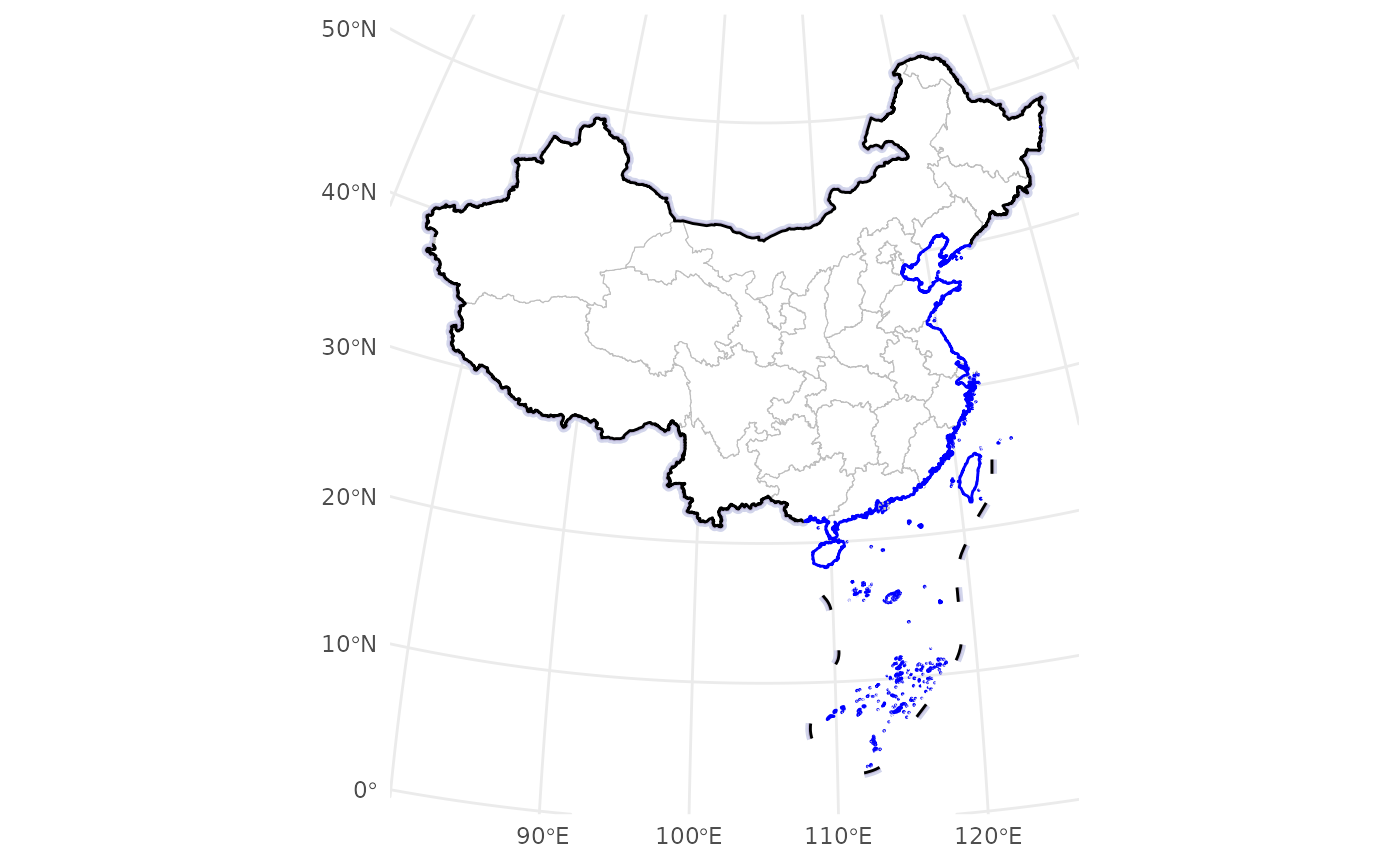
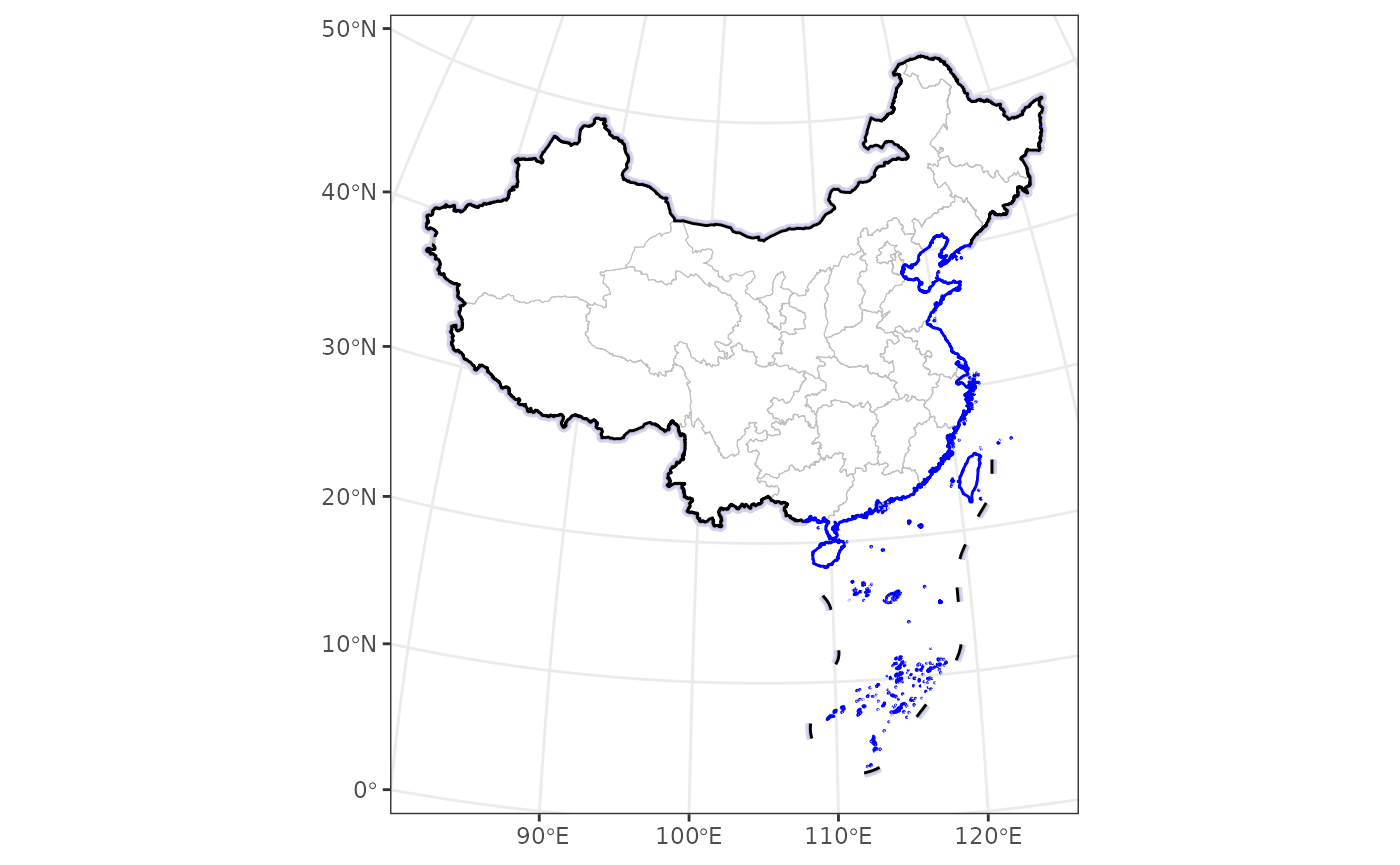
Deploying to gh-pages from @ Rimagination/ggmapcn@1515e055a75295570000e539c8dd0d68d1976e99 🚀

Changed region(s): [[0.2764, 0.9364, 0.7679, 0.9676]]

diff --git a/articles/01.Get_Started.html b/articles/01.Get_Started.html
@@ -5,12 +5,12 @@
 <meta charset="utf-8">
 <meta http-equiv="X-UA-Compatible" content="IE=edge">
 <meta name="viewport" content="width=device-width, initial-scale=1, shrink-to-fit=no">
-<title>Get_started • ggmapcn</title>
+<title>Get_Started • ggmapcn</title>
 <script src="../deps/jquery-3.6.0/jquery-3.6.0.min.js"></script><meta name="viewport" content="width=device-width, initial-scale=1, shrink-to-fit=no">
 <link href="../deps/bootstrap-5.3.1/bootstrap.min.css" rel="stylesheet">
 <script src="../deps/bootstrap-5.3.1/bootstrap.bundle.min.js"></script><link href="../deps/font-awesome-6.4.2/css/all.min.css" rel="stylesheet">
 <link href="../deps/font-awesome-6.4.2/css/v4-shims.min.css" rel="stylesheet">
-<script src="../deps/headroom-0.11.0/headroom.min.js"></script><script src="../deps/headroom-0.11.0/jQuery.headroom.min.js"></script><script src="../deps/bootstrap-toc-1.0.1/bootstrap-toc.min.js"></script><script src="../deps/clipboard.js-2.0.11/clipboard.min.js"></script><script src="../deps/search-1.0.0/autocomplete.jquery.min.js"></script><script src="../deps/search-1.0.0/fuse.min.js"></script><script src="../deps/search-1.0.0/mark.min.js"></script><!-- pkgdown --><script src="../pkgdown.js"></script><meta property="og:title" content="Get_started">
+<script src="../deps/headroom-0.11.0/headroom.min.js"></script><script src="../deps/headroom-0.11.0/jQuery.headroom.min.js"></script><script src="../deps/bootstrap-toc-1.0.1/bootstrap-toc.min.js"></script><script src="../deps/clipboard.js-2.0.11/clipboard.min.js"></script><script src="../deps/search-1.0.0/autocomplete.jquery.min.js"></script><script src="../deps/search-1.0.0/fuse.min.js"></script><script src="../deps/search-1.0.0/mark.min.js"></script><!-- pkgdown --><script src="../pkgdown.js"></script><meta property="og:title" content="Get_Started">
 </head>
 <body>
     <a href="#main" class="visually-hidden-focusable">Skip to contents</a>
@@ -33,7 +33,7 @@
 <li class="active nav-item dropdown">
   <button class="nav-link dropdown-toggle" type="button" id="dropdown-articles" data-bs-toggle="dropdown" aria-expanded="false" aria-haspopup="true">Articles</button>
   <ul class="dropdown-menu" aria-labelledby="dropdown-articles">
-<li><a class="dropdown-item" href="../articles/01.Get_Started.html">Get_started</a></li>
+<li><a class="dropdown-item" href="../articles/01.Get_Started.html">Get_Started</a></li>
     <li><a class="dropdown-item" href="../articles/02.Adding_Spatial_Data.html">Adding_Spatial_Data</a></li>
   </ul>
 </li>
@@ -56,7 +56,7 @@
 <div class="row">
   <main id="main" class="col-md-9"><div class="page-header">
 
-      <h1>Get_started</h1>
+      <h1>Get_Started</h1>
             
       
       <small class="dont-index">Source: <a href="https://github.com/yourusername/yourrepository/blob/main/vignettes/01.Get_Started.Rmd" class="external-link"><code>vignettes/01.Get_Started.Rmd</code></a></small>
@@ -92,7 +92,7 @@ boundaries, buffer zones, and coastlines on the same map:</p>
 <span>  <span class="fu"><a href="../reference/geom_buffer_cn.html">geom_buffer_cn</a></span><span class="op">(</span>mainland_dist <span class="op">=</span> <span class="fl">20000</span>, fill <span class="op">=</span> <span class="st">"#BBB3D8"</span><span class="op">)</span> <span class="op">+</span></span>
 <span>  <span class="fu"><a href="../reference/geom_mapcn.html">geom_mapcn</a></span><span class="op">(</span>fill <span class="op">=</span> <span class="st">"white"</span><span class="op">)</span> <span class="op">+</span></span>
 <span>  <span class="fu"><a href="../reference/geom_boundary_cn.html">geom_boundary_cn</a></span><span class="op">(</span><span class="op">)</span> <span class="op">+</span></span>
-<span>  <span class="fu"><a href="https://ggplot2.tidyverse.org/reference/ggtheme.html" class="external-link">theme_minimal</a></span><span class="op">(</span><span class="op">)</span></span></code></pre></div>
+<span>  <span class="fu"><a href="https://ggplot2.tidyverse.org/reference/ggtheme.html" class="external-link">theme_bw</a></span><span class="op">(</span><span class="op">)</span></span></code></pre></div>
 <p><img src="01.Get_Started_files/figure-html/example5-1.png" alt="Map of China" width="700"></p>
 </div>
   </main><aside class="col-md-3"><nav id="toc" aria-label="Table of contents"><h2>On this page</h2>

diff --git a/articles/index.html b/articles/index.html
@@ -18,7 +18,7 @@
       <ul class="navbar-nav me-auto"><li class="nav-item"><a class="nav-link" href="../reference/index.html">Reference</a></li>
 <li class="nav-item dropdown">
   <button class="nav-link dropdown-toggle" type="button" id="dropdown-articles" data-bs-toggle="dropdown" aria-expanded="false" aria-haspopup="true">Articles</button>
-  <ul class="dropdown-menu" aria-labelledby="dropdown-articles"><li><a class="dropdown-item" href="../articles/01.Get_Started.html">Get_started</a></li>
+  <ul class="dropdown-menu" aria-labelledby="dropdown-articles"><li><a class="dropdown-item" href="../articles/01.Get_Started.html">Get_Started</a></li>
     <li><a class="dropdown-item" href="../articles/02.Adding_Spatial_Data.html">Adding_Spatial_Data</a></li>
   </ul></li>
       </ul><ul class="navbar-nav"><li class="nav-item"><form class="form-inline" role="search">
@@ -39,7 +39,7 @@
       <h3>All vignettes</h3>
       <div class="section-desc"></div>
 
-      <dl><dt><a href="01.Get_Started.html">Get_started</a></dt>
+      <dl><dt><a href="01.Get_Started.html">Get_Started</a></dt>
         <dd>
         </dd><dt><a href="02.Adding_Spatial_Data.html">Adding_Spatial_Data</a></dt>
         <dd>

diff --git a/reference/geom_boundary_cn.html b/reference/geom_boundary_cn.html
@@ -22,7 +22,7 @@ Each boundary type can be customized in terms of color, line width, and line typ
       <ul class="navbar-nav me-auto"><li class="active nav-item"><a class="nav-link" href="../reference/index.html">Reference</a></li>
 <li class="nav-item dropdown">
   <button class="nav-link dropdown-toggle" type="button" id="dropdown-articles" data-bs-toggle="dropdown" aria-expanded="false" aria-haspopup="true">Articles</button>
-  <ul class="dropdown-menu" aria-labelledby="dropdown-articles"><li><a class="dropdown-item" href="../articles/01.Get_Started.html">Get_started</a></li>
+  <ul class="dropdown-menu" aria-labelledby="dropdown-articles"><li><a class="dropdown-item" href="../articles/01.Get_Started.html">Get_Started</a></li>
     <li><a class="dropdown-item" href="../articles/02.Adding_Spatial_Data.html">Adding_Spatial_Data</a></li>
   </ul></li>
       </ul><ul class="navbar-nav"><li class="nav-item"><form class="form-inline" role="search">

diff --git a/reference/geom_buffer_cn.html b/reference/geom_buffer_cn.html
@@ -22,7 +22,7 @@ are generated around each boundary, providing flexibility in projection and appe
       <ul class="navbar-nav me-auto"><li class="active nav-item"><a class="nav-link" href="../reference/index.html">Reference</a></li>
 <li class="nav-item dropdown">
   <button class="nav-link dropdown-toggle" type="button" id="dropdown-articles" data-bs-toggle="dropdown" aria-expanded="false" aria-haspopup="true">Articles</button>
-  <ul class="dropdown-menu" aria-labelledby="dropdown-articles"><li><a class="dropdown-item" href="../articles/01.Get_Started.html">Get_started</a></li>
+  <ul class="dropdown-menu" aria-labelledby="dropdown-articles"><li><a class="dropdown-item" href="../articles/01.Get_Started.html">Get_Started</a></li>
     <li><a class="dropdown-item" href="../articles/02.Adding_Spatial_Data.html">Adding_Spatial_Data</a></li>
   </ul></li>
       </ul><ul class="navbar-nav"><li class="nav-item"><form class="form-inline" role="search">

diff --git a/reference/geom_loc.html b/reference/geom_loc.html
@@ -20,7 +20,7 @@ It allows color mapping based on a grouping variable in the data."></head><body>
       <ul class="navbar-nav me-auto"><li class="active nav-item"><a class="nav-link" href="../reference/index.html">Reference</a></li>
 <li class="nav-item dropdown">
   <button class="nav-link dropdown-toggle" type="button" id="dropdown-articles" data-bs-toggle="dropdown" aria-expanded="false" aria-haspopup="true">Articles</button>
-  <ul class="dropdown-menu" aria-labelledby="dropdown-articles"><li><a class="dropdown-item" href="../articles/01.Get_Started.html">Get_started</a></li>
+  <ul class="dropdown-menu" aria-labelledby="dropdown-articles"><li><a class="dropdown-item" href="../articles/01.Get_Started.html">Get_Started</a></li>
     <li><a class="dropdown-item" href="../articles/02.Adding_Spatial_Data.html">Adding_Spatial_Data</a></li>
   </ul></li>
       </ul><ul class="navbar-nav"><li class="nav-item"><form class="form-inline" role="search">

diff --git a/reference/pollen.html b/reference/pollen.html
@@ -26,7 +26,7 @@ vegetation patterns and environmental reconstructions by correlating with other 
       <ul class="navbar-nav me-auto"><li class="active nav-item"><a class="nav-link" href="../reference/index.html">Reference</a></li>
 <li class="nav-item dropdown">
   <button class="nav-link dropdown-toggle" type="button" id="dropdown-articles" data-bs-toggle="dropdown" aria-expanded="false" aria-haspopup="true">Articles</button>
-  <ul class="dropdown-menu" aria-labelledby="dropdown-articles"><li><a class="dropdown-item" href="../articles/01.Get_Started.html">Get_started</a></li>
+  <ul class="dropdown-menu" aria-labelledby="dropdown-articles"><li><a class="dropdown-item" href="../articles/01.Get_Started.html">Get_Started</a></li>
     <li><a class="dropdown-item" href="../articles/02.Adding_Spatial_Data.html">Adding_Spatial_Data</a></li>
   </ul></li>
       </ul><ul class="navbar-nav"><li class="nav-item"><form class="form-inline" role="search">

diff --git a/reference/geom_mapcn.html b/reference/geom_mapcn.html
@@ -18,7 +18,7 @@
       <ul class="navbar-nav me-auto"><li class="active nav-item"><a class="nav-link" href="../reference/index.html">Reference</a></li>
 <li class="nav-item dropdown">
   <button class="nav-link dropdown-toggle" type="button" id="dropdown-articles" data-bs-toggle="dropdown" aria-expanded="false" aria-haspopup="true">Articles</button>
-  <ul class="dropdown-menu" aria-labelledby="dropdown-articles"><li><a class="dropdown-item" href="../articles/01.Get_Started.html">Get_started</a></li>
+  <ul class="dropdown-menu" aria-labelledby="dropdown-articles"><li><a class="dropdown-item" href="../articles/01.Get_Started.html">Get_Started</a></li>
     <li><a class="dropdown-item" href="../articles/02.Adding_Spatial_Data.html">Adding_Spatial_Data</a></li>
   </ul></li>
       </ul><ul class="navbar-nav"><li class="nav-item"><form class="form-inline" role="search">

diff --git a/reference/geom_vege_raster.html b/reference/geom_vege_raster.html
@@ -18,7 +18,7 @@
       <ul class="navbar-nav me-auto"><li class="active nav-item"><a class="nav-link" href="../reference/index.html">Reference</a></li>
 <li class="nav-item dropdown">
   <button class="nav-link dropdown-toggle" type="button" id="dropdown-articles" data-bs-toggle="dropdown" aria-expanded="false" aria-haspopup="true">Articles</button>
-  <ul class="dropdown-menu" aria-labelledby="dropdown-articles"><li><a class="dropdown-item" href="../articles/01.Get_Started.html">Get_started</a></li>
+  <ul class="dropdown-menu" aria-labelledby="dropdown-articles"><li><a class="dropdown-item" href="../articles/01.Get_Started.html">Get_Started</a></li>
     <li><a class="dropdown-item" href="../articles/02.Adding_Spatial_Data.html">Adding_Spatial_Data</a></li>
   </ul></li>
       </ul><ul class="navbar-nav"><li class="nav-item"><form class="form-inline" role="search">

diff --git a/reference/index.html b/reference/index.html
@@ -18,7 +18,7 @@
       <ul class="navbar-nav me-auto"><li class="active nav-item"><a class="nav-link" href="../reference/index.html">Reference</a></li>
 <li class="nav-item dropdown">
   <button class="nav-link dropdown-toggle" type="button" id="dropdown-articles" data-bs-toggle="dropdown" aria-expanded="false" aria-haspopup="true">Articles</button>
-  <ul class="dropdown-menu" aria-labelledby="dropdown-articles"><li><a class="dropdown-item" href="../articles/01.Get_Started.html">Get_started</a></li>
+  <ul class="dropdown-menu" aria-labelledby="dropdown-articles"><li><a class="dropdown-item" href="../articles/01.Get_Started.html">Get_Started</a></li>
     <li><a class="dropdown-item" href="../articles/02.Adding_Spatial_Data.html">Adding_Spatial_Data</a></li>
   </ul></li>
       </ul><ul class="navbar-nav"><li class="nav-item"><form class="form-inline" role="search">

diff --git a/authors.html b/authors.html
@@ -18,7 +18,7 @@
       <ul class="navbar-nav me-auto"><li class="nav-item"><a class="nav-link" href="reference/index.html">Reference</a></li>
 <li class="nav-item dropdown">
   <button class="nav-link dropdown-toggle" type="button" id="dropdown-articles" data-bs-toggle="dropdown" aria-expanded="false" aria-haspopup="true">Articles</button>
-  <ul class="dropdown-menu" aria-labelledby="dropdown-articles"><li><a class="dropdown-item" href="articles/01.Get_Started.html">Get_started</a></li>
+  <ul class="dropdown-menu" aria-labelledby="dropdown-articles"><li><a class="dropdown-item" href="articles/01.Get_Started.html">Get_Started</a></li>
     <li><a class="dropdown-item" href="articles/02.Adding_Spatial_Data.html">Adding_Spatial_Data</a></li>
   </ul></li>
       </ul><ul class="navbar-nav"><li class="nav-item"><form class="form-inline" role="search">

diff --git a/404.html b/404.html
@@ -33,7 +33,7 @@
 <li class="nav-item dropdown">
   <button class="nav-link dropdown-toggle" type="button" id="dropdown-articles" data-bs-toggle="dropdown" aria-expanded="false" aria-haspopup="true">Articles</button>
   <ul class="dropdown-menu" aria-labelledby="dropdown-articles">
-<li><a class="dropdown-item" href="https://rimagination.github.io/ggmapcn/articles/01.Get_Started.html">Get_started</a></li>
+<li><a class="dropdown-item" href="https://rimagination.github.io/ggmapcn/articles/01.Get_Started.html">Get_Started</a></li>
     <li><a class="dropdown-item" href="https://rimagination.github.io/ggmapcn/articles/02.Adding_Spatial_Data.html">Adding_Spatial_Data</a></li>
   </ul>
 </li>

diff --git a/articles/02.Adding_Spatial_Data.html b/articles/02.Adding_Spatial_Data.html
@@ -33,7 +33,7 @@
 <li class="active nav-item dropdown">
   <button class="nav-link dropdown-toggle" type="button" id="dropdown-articles" data-bs-toggle="dropdown" aria-expanded="false" aria-haspopup="true">Articles</button>
   <ul class="dropdown-menu" aria-labelledby="dropdown-articles">
-<li><a class="dropdown-item" href="../articles/01.Get_Started.html">Get_started</a></li>
+<li><a class="dropdown-item" href="../articles/01.Get_Started.html">Get_Started</a></li>
     <li><a class="dropdown-item" href="../articles/02.Adding_Spatial_Data.html">Adding_Spatial_Data</a></li>
   </ul>
 </li>
